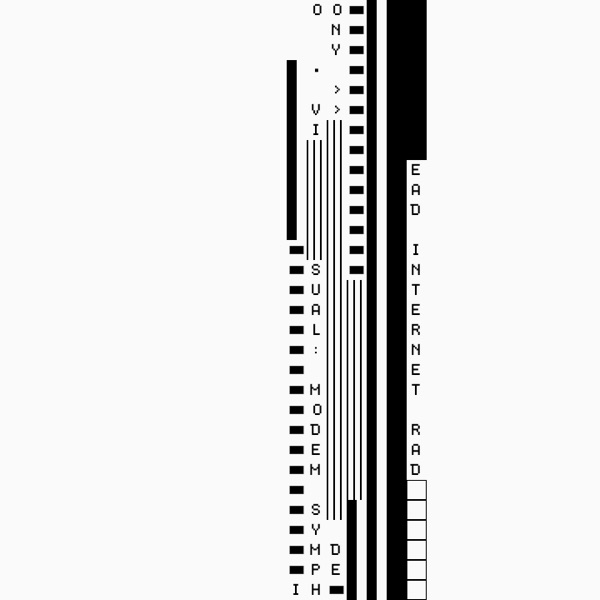
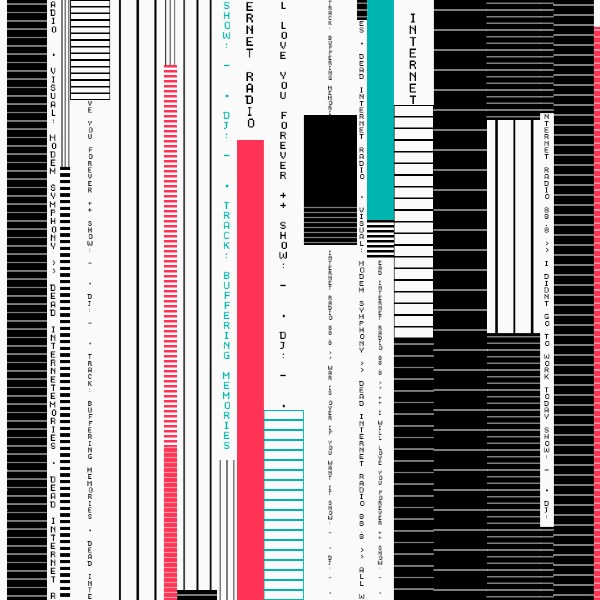
feat: modem symphony fills the screen with columns again
6adf1db cut the artwork back to one narrow band typing on a mostly empty
field, so the usual state was a thin strip down a blank screen. It is now
a full field of columns across the whole width, each with its own width,
cell height, ink and treatment - bars hung with hairlines, thin vertical
rules, stacked pixel text, outline cells, the odd colour block. Every
column is seeded the moment a field appears, so the screen is full on the
first frame; columns then keep typing down and pick a new treatment each
time they wrap. Slogans, the scene palettes and the pixel smears carry
over from 6adf1db, with smears bounded so they draw fine lines instead of
wiping half the page.

diff --git a/public/visuals/modem_symphony.js b/public/visuals/modem_symphony.js
@@ -1,10 +1,11 @@
 'use strict';
 
-// After Modem Symphony No. 1 (radarboy3000, 2023): mostly an empty field. A
-// cursor types down a few narrow columns (stacked text, bars, outline
-// cells), and now and then one row or column of pixels is smeared across
-// the screen into fine lines. The music cuts it to a new field and starts
-// again.
+// After Modem Symphony No. 1 (radarboy3000, 2023): the whole screen at once.
+// A field of columns, each typing itself down at its own width and cell
+// height - bars hung with hairlines, thin vertical rules, stacked pixel
+// text, outline cells, the odd colour block. It is seeded full the moment it
+// appears. The music cuts it to a new field, and now and then one row or
+// column of pixels is smeared across the screen.
 visuals.register('modem_symphony', (() => {
   let myP5 = null;
 
@@ -16,14 +17,23 @@ visuals.register('modem_symphony', (() => {
     '++ I WILL LOVE YOU FOREVER ++ ',
   ];
 
-  // Field, ink, and colours a smear may pick up. Mostly paper.
+  // Field, ink, and the colours a block or a smear may pick up.
   const SCENES = [
-    { w: 5, bg: '#fafafa', ink: ['#000'] },
-    { w: 2, bg: '#000', ink: ['#fff', '#777'] },
-    { w: 1, bg: '#00ffff', ink: ['#000', '#fff'] },
-    { w: 1, bg: '#00b5b0', ink: ['#000', '#7ff', '#3355ff', '#ff3355'] },
-    { w: 1, bg: '#fafafa', ink: ['#000', '#ff0000', '#00cc44', '#0000ff', '#ff00ff', '#00ffff', '#ffee00'] },
+    { w: 6, bg: '#fafafa', ink: '#000', accents: ['#000', '#000', '#00b5b0', '#ff3355'] },
+    { w: 2, bg: '#000', ink: '#fff', accents: ['#fff', '#777', '#00ffff'] },
+    { w: 1, bg: '#00ffff', ink: '#000', accents: ['#000', '#fff'] },
+    { w: 1, bg: '#00b5b0', ink: '#000', accents: ['#000', '#fff', '#3355ff', '#ff3355'] },
+    { w: 1, bg: '#fafafa', ink: '#000', accents: ['#ff0000', '#00cc44', '#0000ff', '#ff00ff', '#00ffff', '#ffee00'] },
   ];
+
+  // Column widths and cell heights, in px: slabs and lanes side by side.
+  const WIDTHS = [12, 16, 16, 24, 32, 32, 48, 64, 96];
+  const HEIGHTS = [6, 8, 10, 12, 14, 18, 24];
+
+  // Blank lane, text, bar with hairlines, vertical rules, outline cell,
+  // colour block, half bar. Bars and text most of the time, a lane of paper
+  // left open here and there.
+  const WEIGHTS = [0.10, 0.22, 0.30, 0.12, 0.12, 0.05, 0.09];
 
   function start() {
     const blockCanvas = document.getElementById('block-canvas');
@@ -35,15 +45,11 @@ visuals.register('modem_symphony', (() => {
 
     myP5 = new p5((p) => {
       let page;
-      let sz = 24;
       let scene = SCENES[0];
-      let x = 0, y = 0;
-      let left = 0, span = 1;  // the band of columns the cursor works in
-      let run = 1;
-      let text = '';
-      let ti = 0;
+      let cols = [];
       let sceneAt = 0;
       let sceneFor = 1000;
+      let fs = 0;
       const td = new Uint8Array(256);
 
       const pickOf = (arr) => arr[Math.floor(Math.random() * arr.length)];
@@ -59,89 +65,110 @@ visuals.register('modem_symphony', (() => {
         return SCENES[0];
       }
 
-      // Wipe to a new field and drop the cursor at the top of a fresh band.
-      function newScene(now, level) {
-        scene = pickScene();
-        sz = pickOf([12, 16, 24, 24, 32]);
-        page.textSize(sz * 0.62);
-        page.background(scene.bg);
-        newBand();
-        sceneAt = now;
-        sceneFor = 300 + Math.random() * (level > 0.1 ? 1800 : 4000);
-      }
-
-      function newBand() {
-        const cols = Math.floor(p.width / sz);
-        span = 2 + Math.floor(Math.random() * Math.random() * 10);
-        left = Math.floor(Math.random() * Math.max(1, cols - span)) * sz;
-        x = left;
-        y = Math.floor(Math.random() * 6) * sz;
-        run = pickKind();
-      }
-
-      // Down the column; at the bottom, across to the next one in the band.
-      function advance() {
-        y += sz;
-        if (y >= p.height) {
-          y = 0;
-          x += sz;
-          if (x >= left + span * sz) newBand();
-        }
-      }
-
-      // Text most, then bars and outline cells, a solid or a gap now and then.
-      const WEIGHTS = [0.12, 0.34, 0.16, 0.12, 0.12, 0.08, 0.06];
-      function pickKind() {
+      // A wide lane left blank is a hole in the field; narrow ones read as paper
+      // between columns, so only they are allowed to go empty.
+      function pickKind(c) {
         let r = Math.random();
-        for (let k = 0; k < WEIGHTS.length; k++) { r -= WEIGHTS[k]; if (r < 0) return k; }
+        for (let k = 0; k < WEIGHTS.length; k++) {
+          r -= WEIGHTS[k];
+          if (r < 0) return k === 0 && c.w > 32 ? 2 : k;
+        }
         return 1;
       }
 
-      function cell(k) {
-        const g = page;
-        const ink = Math.random() < 0.85 ? scene.ink[0] : pickOf(scene.ink);
-        g.noStroke();
-        g.fill(scene.bg);
-        g.rect(x, y, sz, sz);
-        if (k === 0) return;
-        g.fill(ink);
-        if (k === 1) {
-          if (ti >= text.length) { text = words(); ti = 0; }
-          g.text(text[ti++], x + sz / 2, y + sz / 2 + 1);
-        } else if (k === 2) {
-          // Fat bar across the middle of the cell: the ladder rungs.
-          g.rect(x + sz * 0.15, y + sz * 0.3, sz * 0.7, sz * 0.4);
-        } else if (k === 3) {
-          for (let i = 0; i < 3; i++) g.rect(x + i * sz / 3, y, Math.max(1, sz / 12), sz);
-        } else if (k === 4) {
-          g.noFill();
-          g.stroke(ink);
-          g.strokeWeight(1);
-          g.rect(x + 0.5, y + 0.5, sz - 1, sz - 1);
-        } else if (k === 5) {
-          g.rect(x, y, sz, sz);
-        } else {
-          g.rect(x, y, sz / 2, sz);
+      // A new composition: columns of mixed width edge to edge, each with its
+      // own cell height, ink, and where it has got to.
+      function makeColumns() {
+        cols = [];
+        let x = 0;
+        while (x < p.width) {
+          const w = Math.min(pickOf(WIDTHS), p.width - x);
+          const h = pickOf(HEIGHTS);
+          const c = {
+            x, w, h,
+            y: 0,
+            ink: Math.random() < 0.15 ? pickOf(scene.accents) : scene.ink,
+            accent: pickOf(scene.accents),
+            text: '', ti: 0,
+          };
+          c.kind = pickKind(c);
+          cols.push(c);
+          x += w;
         }
       }
 
-      // One row or column of pixels pulled out across the page.
+      // Fill each column from the top down to somewhere: full screen at once,
+      // ragged at the bottom, and the typing carries on from there.
+      function seed() {
+        for (const c of cols) {
+          const until = p.height * (0.4 + Math.random() * 0.6);
+          c.y = 0;
+          while (c.y < until) { cell(c); c.y += c.h; }
+        }
+      }
+
+      function cell(c) {
+        const g = page;
+        const { x, y, w, h } = c;
+        g.noStroke();
+        g.fill(scene.bg);
+        g.rect(x, y, w, h);
+        if (c.kind === 0) return;
+        g.fill(c.ink);
+        if (c.kind === 1) {
+          if (c.ti >= c.text.length) { c.text = words(); c.ti = 0; }
+          const ts = Math.max(6, Math.min(12, Math.min(w, h) * 0.85));
+          if (fs !== ts) { g.textSize(ts); fs = ts; }
+          g.text(c.text[c.ti++], x + w / 2, y + h / 2 + 1);
+        } else if (c.kind === 2) {
+          // Bar, hung with a hairline. Stacked cells read as a ruled slab.
+          g.rect(x, y, w, h);
+          g.stroke(scene.bg);
+          g.strokeWeight(1);
+          g.line(x, y + h / 2, x + w, y + h / 2);
+        } else if (c.kind === 3) {
+          for (let i = 0; i < 3; i++) g.rect(x + (i + 0.5) * w / 3 - 0.5, y, Math.max(1, w / 24), h);
+        } else if (c.kind === 4) {
+          g.noFill();
+          g.stroke(c.ink);
+          g.strokeWeight(1);
+          g.rect(x + 0.5, y + 0.5, w - 1, h - 1);
+        } else if (c.kind === 5) {
+          g.fill(c.accent);
+          g.rect(x, y, w, h);
+        } else {
+          g.rect(x, y, w, h * 0.5);
+        }
+      }
+
+      // One row or column of pixels pulled out across part of the page: fine
+      // lines, never a wipe of the whole field.
       function smear() {
         const c = page.drawingContext;
         const el = page.elt;
         c.imageSmoothingEnabled = false;
         if (Math.random() < 0.6) {
           // A 1px row dragged down: fine vertical lines.
-          const sy = Math.min(p.height - 1, Math.max(0, y - 1));
-          const x0 = Math.random() < 0.5 ? 0 : left;
-          const x1 = Math.random() < 0.5 ? p.width : left + span * sz;
-          c.drawImage(el, x0, sy, x1 - x0, 1, x0, sy, x1 - x0, p.height - sy);
+          const sy = Math.floor(Math.random() * (p.height - 1));
+          const len = Math.max(8, (p.height - sy) * (0.25 + Math.random() * 0.75));
+          c.drawImage(el, 0, sy, p.width, 1, 0, sy, p.width, len);
         } else {
           // A 1px column dragged sideways: fine horizontal lines.
-          const sx = Math.min(p.width - 1, x + Math.floor(sz / 2));
-          if (Math.random() < 0.5) c.drawImage(el, sx, 0, 1, p.height, 0, 0, sx, p.height);
-          else c.drawImage(el, sx, 0, 1, p.height, sx, 0, p.width - sx, p.height);
+          const sx = Math.floor(Math.random() * (p.width - 1));
+          const left = Math.random() < 0.5;
+          const len = Math.max(8, (left ? sx : p.width - sx) * (0.25 + Math.random() * 0.75));
+          c.drawImage(el, sx, 0, 1, p.height, left ? sx - len : sx, 0, len, p.height);
         }
+      }
+
+      // Wipe to a new field: new colours, new columns, full again.
+      function newScene(now, level) {
+        scene = pickScene();
+        page.background(scene.bg);
+        makeColumns();
+        seed();
+        sceneAt = now;
+        sceneFor = 900 + Math.random() * (level > 0.1 ? 3000 : 7000);
       }
 
       function makePage() {
@@ -149,13 +176,13 @@ visuals.register('modem_symphony', (() => {
         page.pixelDensity(1);
         page.textFont('Dogica');
         page.textAlign(p.CENTER, p.CENTER);
+        fs = 0;
       }
 
       p.setup = () => {
         visuals.setupP5Canvas(p);
         p.noSmooth();
         makePage();
-        text = words();
         newScene(0, 0);
       };
 
@@ -183,11 +210,20 @@ visuals.register('modem_symphony', (() => {
           newScene(now, level);
         }
 
-        const steps = Math.max(1, Math.round((2 + level * 50) * speed));
-        for (let i = 0; i < steps; i++) {
-          if (Math.random() < 0.08) run = pickKind();
-          cell(run);
-          advance();
+        // Every column types at once; louder music types faster. A column
+        // keeps its treatment for the length of a pass.
+        const steps = 1 + Math.round(level * 8 * speed);
+        for (const c of cols) {
+          if (Math.random() < 0.01) c.kind = pickKind(c);
+          for (let i = 0; i < steps; i++) {
+            cell(c);
+            c.y += c.h;
+            if (c.y >= p.height) {
+              c.y = 0;
+              c.kind = pickKind(c);
+              c.ink = Math.random() < 0.15 ? pickOf(scene.accents) : scene.ink;
+            }
+          }
         }
         if (Math.random() < 0.02 + level * react * 0.1) smear();
 
